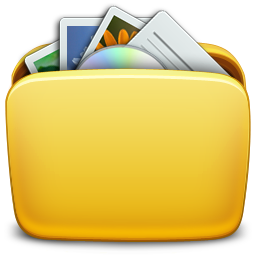
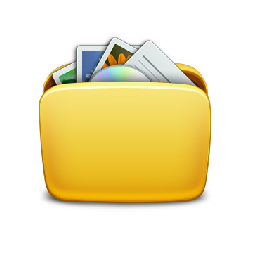
Modified design, added phpdoc

diff --git a/css/wp-photo-album.css b/css/wp-photo-album.css
@@ -134,6 +134,10 @@
     display:none;
 }
 
+.wp-photo-album-item #comment{
+    max-width:100%;
+}
+
 
 .wp-photo-album-item #respond #submit{
     padding: 6px 16px 7px;
@@ -192,11 +196,12 @@
         max-width: 98%;
     }
 
-    .photo-preview{
-        height:160px;
-    }
 
-    .photo-preview .photo-thumb{
-        max-height:150px;
+    .album-preview, .photo-preview,
+    .photo-preview .photo-thumb,
+    .album-preview .photo-thumb
+    {
+        height:auto;
+        max-height: none;
     }
 }

diff --git a/WordpressPhotoAlbum.php b/WordpressPhotoAlbum.php
@@ -19,6 +19,7 @@ class WordpressPhotoAlbum
 
 
 
+
     public static function init()
     {
         self::$urlRules = [
@@ -71,6 +72,8 @@ class WordpressPhotoAlbum
     }
 
 
+
+
     public static function uninstall()
     {
         global $wpdb;
@@ -80,6 +83,14 @@ class WordpressPhotoAlbum
 
 
 
+
+
+    /**
+     * @param string|int $parentAlbum parent album term_id
+     * Set empty string if albums under root required
+     * @param bool|false $withLastPhoto
+     * @return array|WP_Error
+     */
     public static function getAlbums($parentAlbum = '', $withLastPhoto = false)
     {
         $albums = get_terms(
@@ -94,40 +105,66 @@ class WordpressPhotoAlbum
         );
 
         //Tis absolutely non-sense, but I don't see another way to get it through wp-api
+        //Condition out of iteration. If it is more reasonable to put it in, notice me or change it
         if($albums){
-            foreach($albums as $key=>$album){
-                $albums[$key]->lastPhoto = self::getLastAlbumPhotoThumb($album->slug);
+            if($withLastPhoto){
+                foreach($albums as $key=>$album){
+                    $albums[$key]->lastPhoto = self::getLastAlbumPhotoThumb($album->slug);
+                }
+            } else{
+                foreach($albums as $key=>$album){
+                    $albums[$key]->lastPhoto = plugins_url('/css/image-folder.png', __FILE__);
+                }
             }
         }
+
 
         return $albums;
     }
 
 
-
+    /**
+     * Get last uploaded photo thumb for right album
+     * Shall return only string(path to thumb or predefined image if there is no such)
+     *
+     * @param string $albumSlug
+     * @return array|bool|string
+     */
     private static function getLastAlbumPhotoThumb($albumSlug)
     {
-        $lastPhoto = self::getPhotos($albumSlug, 0, '', 1);
+        $photo = plugins_url('/css/image-folder.png', __FILE__);
+
+        $lastPhoto = self::getPhotos($albumSlug, 0, 'ids', 1);
+
         if($lastPhoto->have_posts()){
-            $lastPhotoData = array_shift($lastPhoto->get_posts());
-            $photo = wp_get_attachment_image_src(get_post_thumbnail_id($lastPhotoData->ID), 'medium');
+            $lastPhotoId = array_shift($lastPhoto->get_posts());
+            $photo = wp_get_attachment_image_src(get_post_thumbnail_id($lastPhotoId), 'medium');
             if($photo){
                 $photo = $photo[0];
             }
-        } else{
-            $photo = plugins_url('/css/image-folder.png', __FILE__);
         }
 
         return $photo;
     }
 
 
+    /**
+     * @param $albumSlug
+     * @return mixed information about album(term)
+     */
     public static function getAlbum($albumSlug)
     {
         return get_term_by('slug', $albumSlug, self::TAXONOMY);
     }
 
 
+    /**
+     * @param $albumSlug
+     * @param int $page number of page that shall define selection offset
+     * @param string $fields https://codex.wordpress.org/Class_Reference/WP_Query#Return_Fields_Parameter
+     * @param null $limit number of elements to be selected
+     * @return WP_Query
+     */
     public static function getPhotos($albumSlug, $page = 1, $fields = '', $limit = null)
     {
         $page = (int)$page > 0 ? (int)$page : 1;
@@ -154,7 +191,20 @@ class WordpressPhotoAlbum
     }
 
 
-
+    /**
+     * Besides standart wordpress fields it also returns information(in ->albumInfo property) about parent term
+     * !!! Only first matched parent, cause vk.com doesn't have multiple album choices
+     * But it doesn't mean you can not select multiple parent albums
+     * (it will work, but there may be troubles with real parent album)
+     *
+     * It also returns additional photo information(->additionalInfo) such as next and previous photo links and position in album
+     *
+     * Photo image url returned in photoSource property
+     *
+     * All information also writes in global post for CMS manipulation such as checking is_single() and etc.
+     * @param $id
+     * @return array|bool|null|WP_Post
+     */
     public static function getPhoto($id)
     {
         $id = (int)$id;
@@ -175,6 +225,9 @@ class WordpressPhotoAlbum
 
         return $GLOBALS['post'];
     }
+
+
+
 
 
     /**
@@ -208,12 +261,21 @@ class WordpressPhotoAlbum
     }
 
 
+    /**
+     * @return string path to plugin templates directory
+     */
     private static function getTplPath()
     {
         return __DIR__ . '/' . self::TPL_DIR .'/';
     }
 
 
+    /**
+     * Builds album url from given rewriteRules
+     *
+     * @param $albumSlug
+     * @return mixed
+     */
     public static function albumUrl($albumSlug)
     {
         $urlRule = $albumSlug === '' ? str_replace('?', '', (self::$urlRules['main']['rule'])) : (self::$urlRules['album']['rule']);
@@ -222,6 +284,13 @@ class WordpressPhotoAlbum
         return preg_replace('#\((.+)?\)#', $albumSlug, $rule);
     }
 
+
+    /**
+     * Builds photo url from given rewriteRules
+     *
+     * @param $photoId
+     * @return mixed
+     */
     public static function photoUrl($photoId)
     {
         $rule = str_replace(['^', '$'], '', self::$urlRules['photo']['rule']);
@@ -229,6 +298,15 @@ class WordpressPhotoAlbum
     }
 
 
+    /**
+     * Simple localization that searches passed word in localization dir
+     *
+     * Localization file is selected based on get_locale() value
+     *
+     * @param $word
+     * @param bool|false $lowercase
+     * @return mixed|string
+     */
     public static function __t($word, $lowercase = false)
     {
         if(self::$localization === null ){
@@ -241,6 +319,33 @@ class WordpressPhotoAlbum
     }
 
 
+
+
+
+    /**
+     * Shows sorting by album(term) filter on photos(posts) list (admin page)
+     */
+    private static function registerPostFilter()
+    {
+        add_action( 'restrict_manage_posts', function () {
+            global $typenow;
+            if( $typenow == self::POST_TYPE){
+                $terms = get_terms(self::TAXONOMY);
+                echo '<select name="'.self::TAXONOMY.'" id="'.self::TAXONOMY.'" class="postform">';
+                echo '<option value="">'. self::__t('sort_by_album').'</option>';
+                foreach ($terms as $term) {
+                    echo '<option value="'. $term->slug .'" ', $_GET[self::TAXONOMY] == $term->slug ? ' selected="selected"' : '','>' . $term->name .' (' . $term->count .')</option>';
+                }
+                echo "</select>";
+
+            }
+        });
+
+    }
+
+
+
+
     public static function redirectTo404()
     {
         $GLOBALS['wp_query']->set_404();
@@ -250,8 +355,10 @@ class WordpressPhotoAlbum
     }
 
 
-
-
+    /**
+     * Scans defined urlRules for matches with current request_url
+     * If matched, reads params(if there is such) and includes defined template
+     */
     private static function registerUrlRewrite()
     {
         foreach(self::$urlRules as $rewrite){
@@ -348,35 +455,15 @@ class WordpressPhotoAlbum
 
             register_post_type( WordpressPhotoAlbum::POST_TYPE, $args );
             $currentSupport = get_theme_support('post-thumbnails');
-            add_theme_support('post-thumbnails', array_merge($currentSupport[0],[WordpressPhotoAlbum::POST_TYPE]));
+            $currentSupport = is_array($currentSupport) ? array_merge($currentSupport[0],[WordpressPhotoAlbum::POST_TYPE]) : [WordpressPhotoAlbum::POST_TYPE];
+
+            add_theme_support('post-thumbnails', $currentSupport);
         });
 
 
         add_action('admin_menu', function(){
             remove_submenu_page('edit.php?post_type=wp-photo', 'edit-tags.php?taxonomy=post_tag&amp;post_type=wp-photo');
         });
-    }
-
-
-    /**
-     * Shows filter on posts list admin page
-     */
-    private static function registerPostFilter()
-    {
-        add_action( 'restrict_manage_posts', function () {
-            global $typenow;
-            if( $typenow == self::POST_TYPE){
-                $terms = get_terms(self::TAXONOMY);
-                echo '<select name="'.self::TAXONOMY.'" id="'.self::TAXONOMY.'" class="postform">';
-                echo '<option value="">'. self::__t('sort_by_album').'</option>';
-                foreach ($terms as $term) {
-                    echo '<option value="'. $term->slug .'" ', $_GET[self::TAXONOMY] == $term->slug ? ' selected="selected"' : '','>' . $term->name .' (' . $term->count .')</option>';
-                }
-                echo "</select>";
-
-            }
-        });
-
     }
 
 

diff --git a/templates/album.php b/templates/album.php
@@ -17,7 +17,7 @@ add_filter('wp_title', function() use($album){
 $page = !empty($params['page'])  ? $params['page'] : 1;
 
 
-$subAlbums = WordpressPhotoAlbum::getAlbums($album->term_id);
+$subAlbums = WordpressPhotoAlbum::getAlbums($album->term_id, true);
 $photos = WordpressPhotoAlbum::getPhotos($album->slug, $page);
 
 
@@ -34,7 +34,7 @@ $photos = WordpressPhotoAlbum::getPhotos($album->slug, $page);
         <h2 class="album-h1"><?=WordpressPhotoAlbum::__t('albums')?></h2>
         <div class="row wp-photo-album">
             <?php foreach ($subAlbums as $album): ?>
-                <div class="col-md-3 col-sm-4 col-xs-6 album-preview">
+                <div class="col-lg-3 col-md-4 col-sm-6 col-xs-12 album-preview">
 
                     <div class="thumbnail photo-thumb">
                         <a href="<?=WordpressPhotoAlbum::albumUrl($album->slug)?>">
@@ -54,7 +54,7 @@ $photos = WordpressPhotoAlbum::getPhotos($album->slug, $page);
         <div class="row wp-photo-album">
             <h1 class="album-h1"><?=$album->name?></h1><br>
             <?php while($photos->have_posts()): $photos->the_post(); ?>
-                <div class="col-md-3 col-sm-4 col-xs-6 photo-preview">
+                <div class="col-lg-3 col-md-4 col-sm-6 col-xs-12 photo-preview">
                     <div class="thumbnail photo-thumb">
                         <?php if(has_post_thumbnail()): ?>
                             <a href="<?=WordpressPhotoAlbum::photoUrl(get_the_ID())?>" title="<?=get_the_title()?>">

diff --git a/templates/main.php b/templates/main.php
@@ -1,7 +1,7 @@
 <?php
 
 
-$albums = WordpressPhotoAlbum::getAlbums(0);
+$albums = WordpressPhotoAlbum::getAlbums(0, true);
 status_header(200);
 
 add_filter('wp_title', function(){
@@ -18,7 +18,7 @@ get_header();
     <h1 class="album-h1"><?php wp_title();?></h1>
     <div class="row wp-photo-album">
         <?php foreach ($albums as $album): ?>
-            <div class="col-md-3 col-sm-4 col-xs-6 album-preview">
+            <div class="col-lg-3 col-md-4 col-sm-6 col-xs-12 album-preview">
                 <div class="thumbnail photo-thumb">
                     <a href="<?=WordpressPhotoAlbum::albumUrl($album->slug)?>">
                         <img src="<?=$album->lastPhoto?>" class="centered" title="<?=$album->name?>">

diff --git a/templates/api/album-photos.php b/templates/api/album-photos.php
@@ -21,7 +21,7 @@ if($photos->have_posts()){
 
 <?php if($photos->have_posts()):  ?>
     <?php while($photos->have_posts()): $photos->the_post(); ?>
-        <div class="col-md-3 col-sm-4 col-xs-6 photo-preview">
+        <div class="col-lg-3 col-md-4 col-sm-6 col-xs-12 photo-preview">
             <div class="thumbnail photo-thumb">
                 <?php if(has_post_thumbnail()): ?>
                     <a href="<?=WordpressPhotoAlbum::photoUrl(get_the_ID())?>" title="<?=get_the_title()?>">
